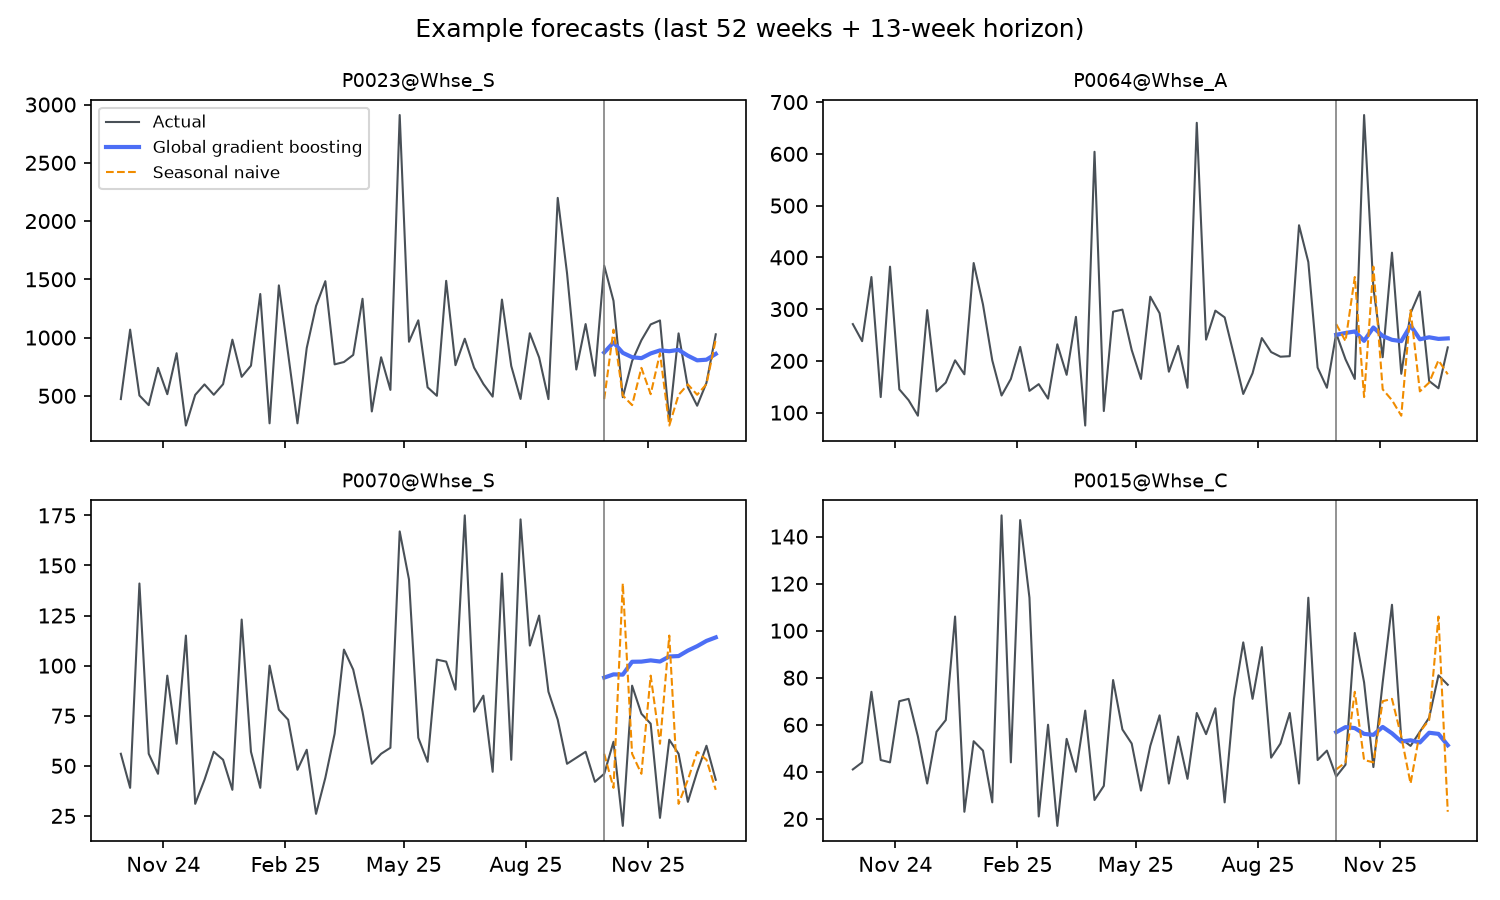
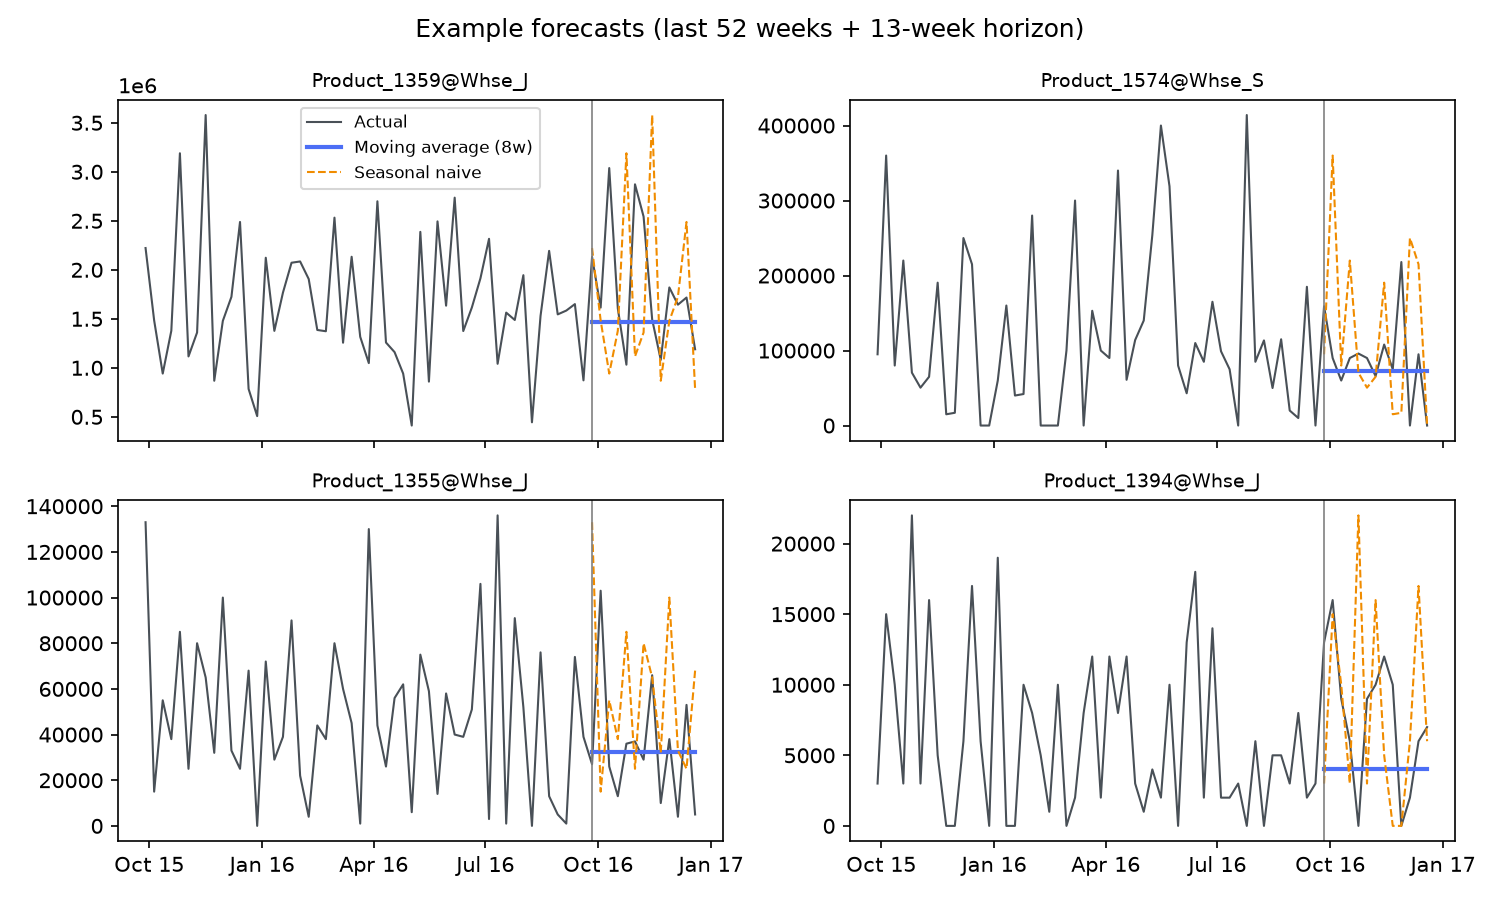
Run analyses on the real Kaggle datasets and report results

diff --git a/src/demand_forecast/backtest.py b/src/demand_forecast/backtest.py
@@ -129,7 +129,11 @@ def main() -> None:
         )
     results = pd.DataFrame(rows).sort_values("WAPE").reset_index(drop=True)
     best = results.iloc[0]
-    naive = results.set_index("model").loc["Moving average (8w)"]  # the usual spreadsheet method
+    by_model = results.set_index("model")
+    # The business choice: least inventory among models that still meet the service target.
+    eligible = results[results["fill_rate"] >= SERVICE_TARGET]
+    pick = (eligible if len(eligible) else results).sort_values("avg_inventory_units").iloc[0]
+    worst_stock = by_model["avg_inventory_units"].max()
 
     _plot_examples(panel, eval_origin, eval_fc, best["model"])
     _plot_tradeoff(results)
@@ -139,7 +143,7 @@ def main() -> None:
         fmt[c] = fmt[c].map("{:.1%}".format)
     fmt["MASE"] = fmt["MASE"].map("{:.2f}".format)
     fmt["avg_inventory_units"] = fmt["avg_inventory_units"].map("{:,.0f}".format)
-    inv_change = best["avg_inventory_units"] / naive["avg_inventory_units"] - 1
+    saving = 1 - pick["avg_inventory_units"] / worst_stock
 
     report = f"""# Demand Forecasting & Inventory Backtest
 
@@ -162,9 +166,11 @@ for a {SERVICE_TARGET:.0%} service target from that model's own historical error
 
 ![tradeoff](tradeoff.png)
 
-**{best["model"]}** reaches a {best["fill_rate"]:.1%} fill rate while holding
-**{abs(inv_change):.0%} {"less" if inv_change < 0 else "more"} inventory** than an 8-week moving average,
-the method most planning spreadsheets use ({naive["fill_rate"]:.1%} fill rate).
+- **Most accurate:** {best["model"]} (WAPE {best["WAPE"]:.1%}).
+- **Recommended for planning:** **{pick["model"]}**, which meets the {SERVICE_TARGET:.0%} service target
+  ({pick["fill_rate"]:.1%} fill rate) with the least inventory, **{saving:.0%} less** than the most
+  stock-heavy model.
+{"- A simple baseline wins here: with lumpy, intermittent demand, extra model complexity mostly adds variance. Worth knowing before investing in ML forecasting." if pick["model"] in ("Moving average (8w)", "Seasonal naive") else ""}
 
 ![examples](examples.png)
 """

diff --git a/src/demand_forecast/data.py b/src/demand_forecast/data.py
@@ -91,14 +91,30 @@ def kaggle() -> pd.DataFrame:
         .index
     )
     weekly = weekly.set_index(["sku", "warehouse"]).loc[top].reset_index()
-    # Fill weeks with no orders with zero demand.
+    # Give every series the same full weekly calendar, with zero demand in weeks without orders.
+    weeks = pd.date_range(weekly["week"].min(), weekly["week"].max(), freq="W-MON")
+    meta = weekly.groupby(["sku", "warehouse"])["category"].first()
     full = (
-        weekly.set_index("week")
-        .groupby(["sku", "warehouse", "category"])["demand"]
-        .resample("W-MON")
+        weekly.groupby(["sku", "warehouse", "week"])["demand"]
         .sum()
         .reset_index()
+        .set_index(["sku", "warehouse", "week"])
     )
+    frames = []
+    for (sku, wh), cat in meta.items():
+        series = full.loc[(sku, wh)]["demand"].reindex(weeks, fill_value=0)
+        frames.append(
+            pd.DataFrame(
+                {
+                    "sku": sku,
+                    "warehouse": wh,
+                    "category": cat,
+                    "week": weeks,
+                    "demand": series.to_numpy(),
+                }
+            )
+        )
+    full = pd.concat(frames, ignore_index=True)
     return _with_series_id(full)
 
 

diff --git a/reports/REPORT.md b/reports/REPORT.md
@@ -1,17 +1,17 @@
 # Demand Forecasting & Inventory Backtest
 
 _Generated by `make backtest`._ 200 SKU-warehouse series,
-weekly data from Jan 2023 to Dec 2025.
-Forecasts are made 13 weeks ahead from 29 Sep 2025 using only earlier data.
+weekly data from Jan 2012 to Dec 2016.
+Forecasts are made 13 weeks ahead from 26 Sep 2016 using only earlier data.
 
 ## Accuracy
 
 | model                    | WAPE   | Bias   |   MASE | fill_rate   |   avg_inventory_units |
 |:-------------------------|:-------|:-------|-------:|:------------|----------------------:|
-| Global gradient boosting | 43.4%  | -10.1% |   0.88 | 98.2%       |                58,791 |
-| Moving average (8w)      | 43.9%  | 1.8%   |   0.91 | 98.8%       |                68,055 |
-| Holt-Winters             | 45.8%  | -3.7%  |   1    | 99.2%       |                67,830 |
-| Seasonal naive           | 54.4%  | -21.7% |   1.11 | 97.6%       |                59,461 |
+| Moving average (8w)      | 48.7%  | -20.3% |   0.76 | 98.0%       |            34,715,878 |
+| Global gradient boosting | 51.1%  | -3.4%  |   0.75 | 98.8%       |            42,391,749 |
+| Holt-Winters             | 54.2%  | 1.4%   |   0.84 | 99.3%       |            48,950,988 |
+| Seasonal naive           | 67.0%  | -4.6%  |   1.01 | 99.0%       |            58,149,028 |
 
 - **WAPE**: total absolute error as a share of total demand (lower is better)
 - **Bias**: positive means over-forecasting
@@ -24,8 +24,10 @@ for a 95% service target from that model's own historical error.
 
 ![tradeoff](tradeoff.png)
 
-**Global gradient boosting** reaches a 98.2% fill rate while holding
-**14% less inventory** than an 8-week moving average,
-the method most planning spreadsheets use (98.8% fill rate).
+- **Most accurate:** Moving average (8w) (WAPE 48.7%).
+- **Recommended for planning:** **Moving average (8w)**, which meets the 95% service target
+  (98.0% fill rate) with the least inventory, **40% less** than the most
+  stock-heavy model.
+- A simple baseline wins here: with lumpy, intermittent demand, extra model complexity mostly adds variance. Worth knowing before investing in ML forecasting.
 
 ![examples](examples.png)

diff --git a/README.md b/README.md
@@ -23,6 +23,11 @@ inventory simulation, so models are compared on **fill rate and stock held**, no
 - **Real data quirks** handled in the Kaggle loader: returns stored as `(100)`, gaps filled with
   zero-demand weeks, and slow movers with intermittent demand
 
+**Results on the Kaggle data (200 series, 2012–2016):** the 8-week moving average is both the most accurate
+(WAPE 48.7%) and meets the 95% service target with **40% less inventory** than the most stock-heavy
+model. On lumpy B2B demand, extra model complexity mostly added variance: an honest finding worth
+having before investing in ML forecasting.
+
 Full results: [`reports/REPORT.md`](reports/REPORT.md)
 
 ## Data
